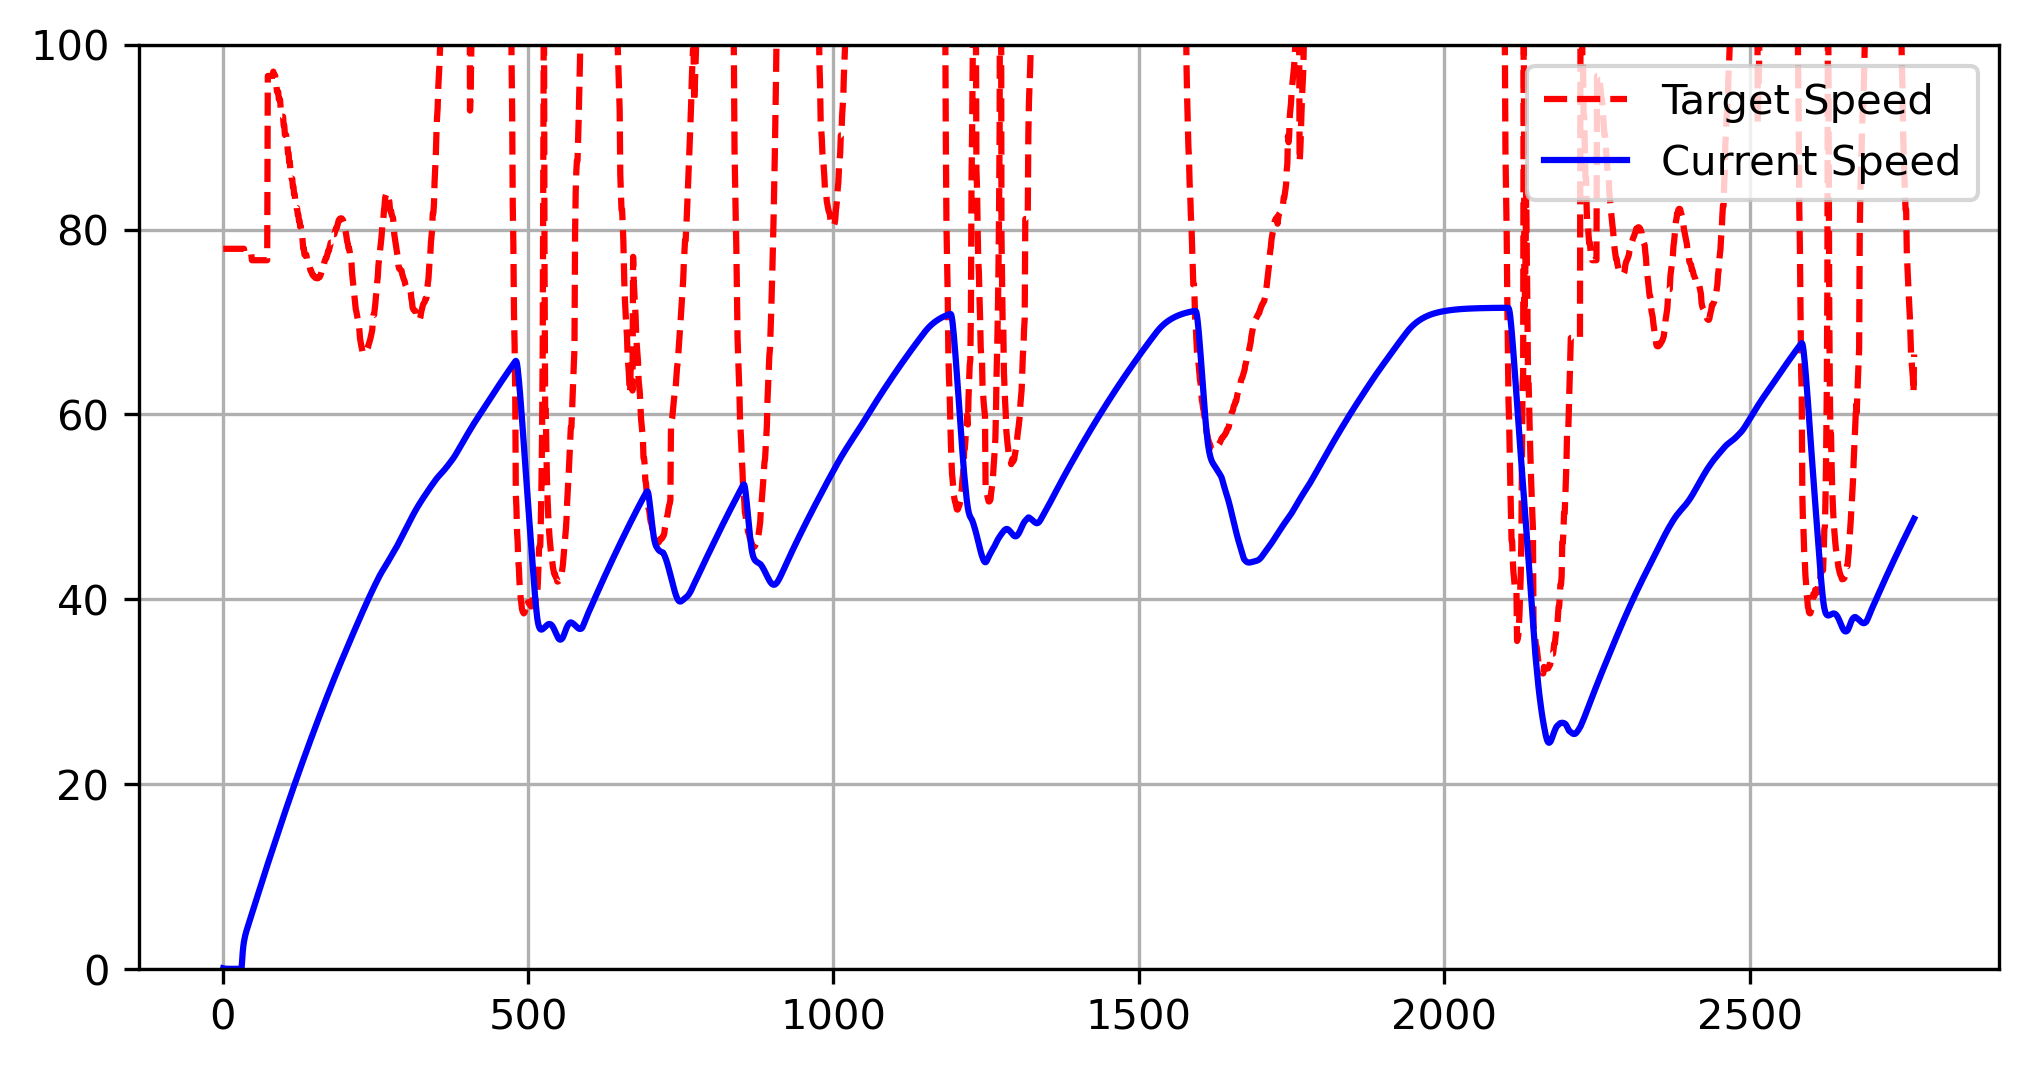
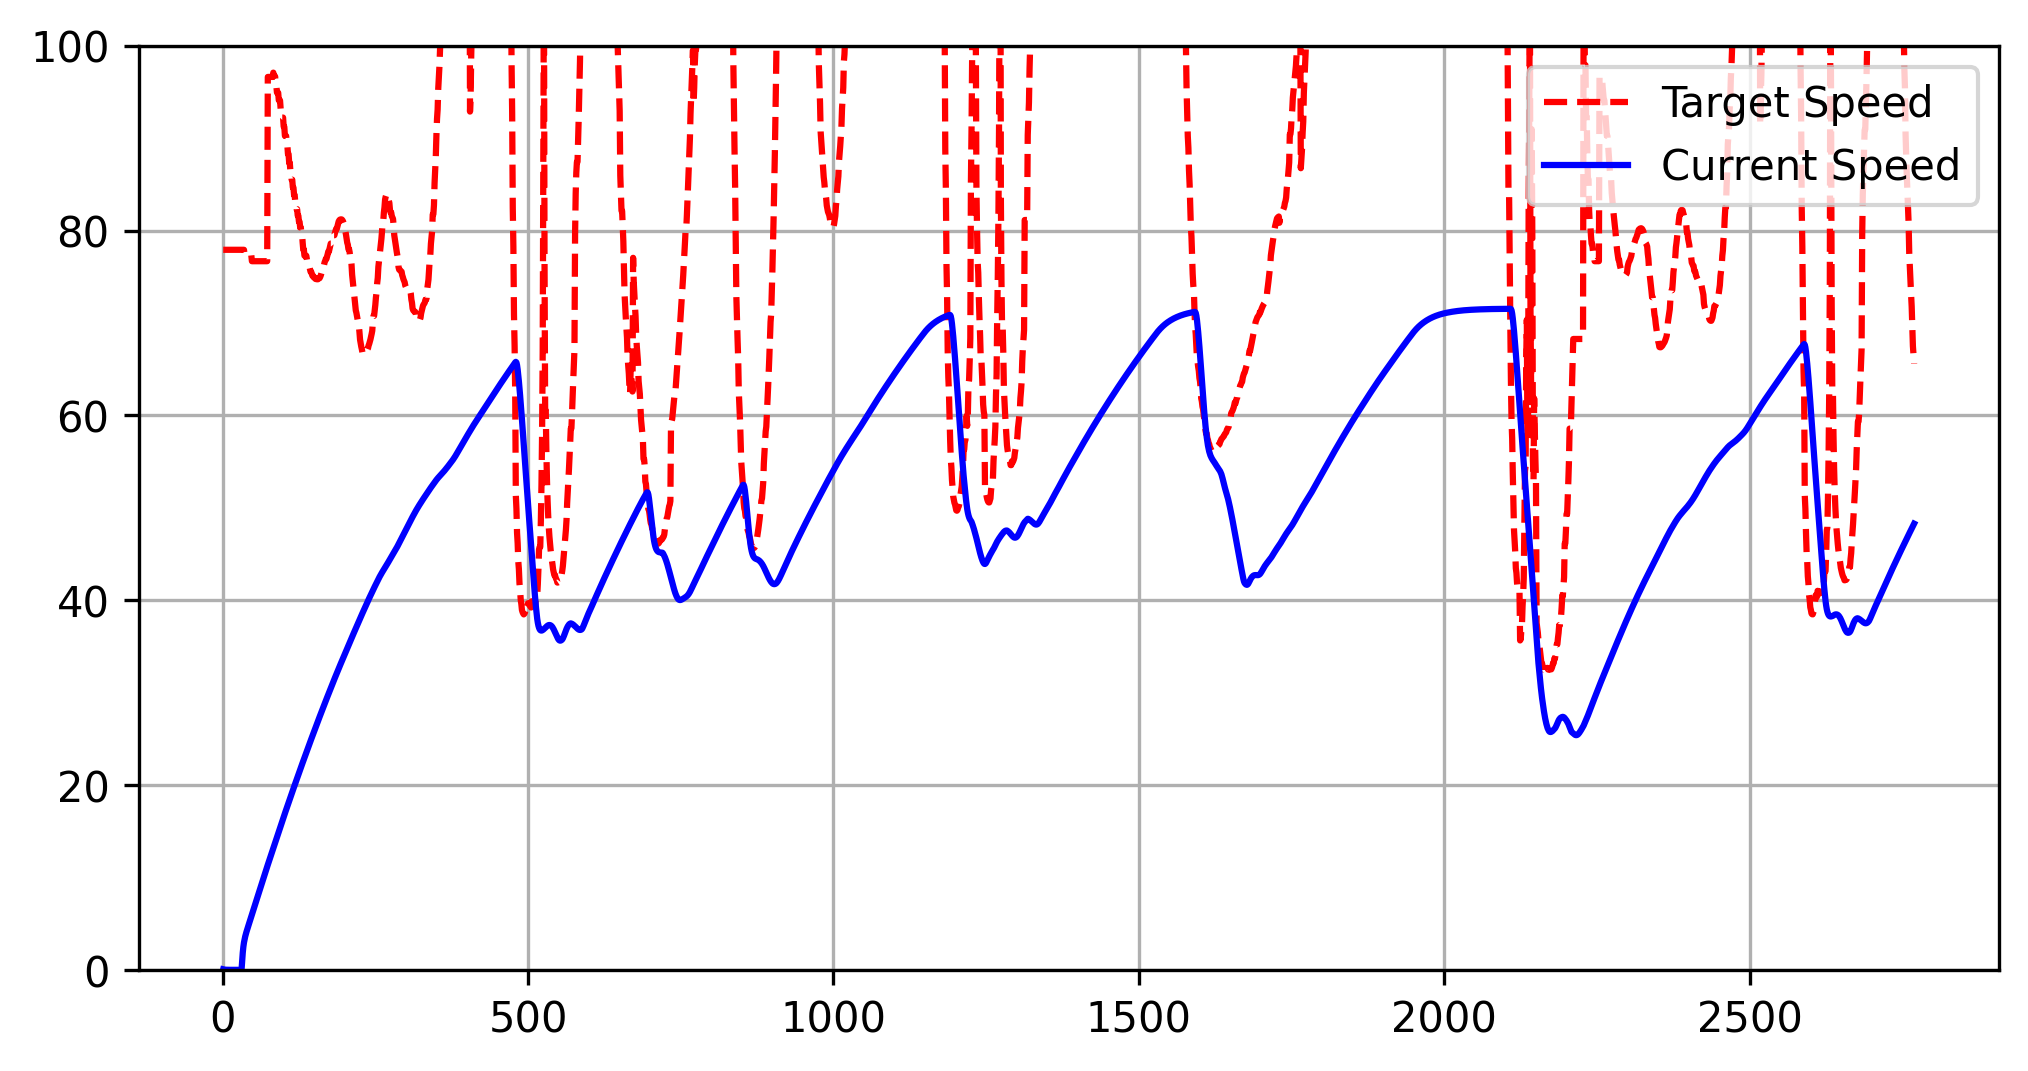
get rid of i

diff --git a/competition_code/submission.py b/competition_code/submission.py
@@ -56,7 +56,7 @@ class RoarCompetitionSolution:
             self.maneuverable_waypoints
         )
 
-        self.speed_controller = PIDController(1.0, 0.1, 0.1, 0.05)
+        self.speed_controller = PIDController(1.1, 0.0, 0.1, 0.05)
         self.speed_controller.set_iZone(5)
         self.steer_controller = PIDController(1.2, 0.0, 0.0, 0.05)
 
